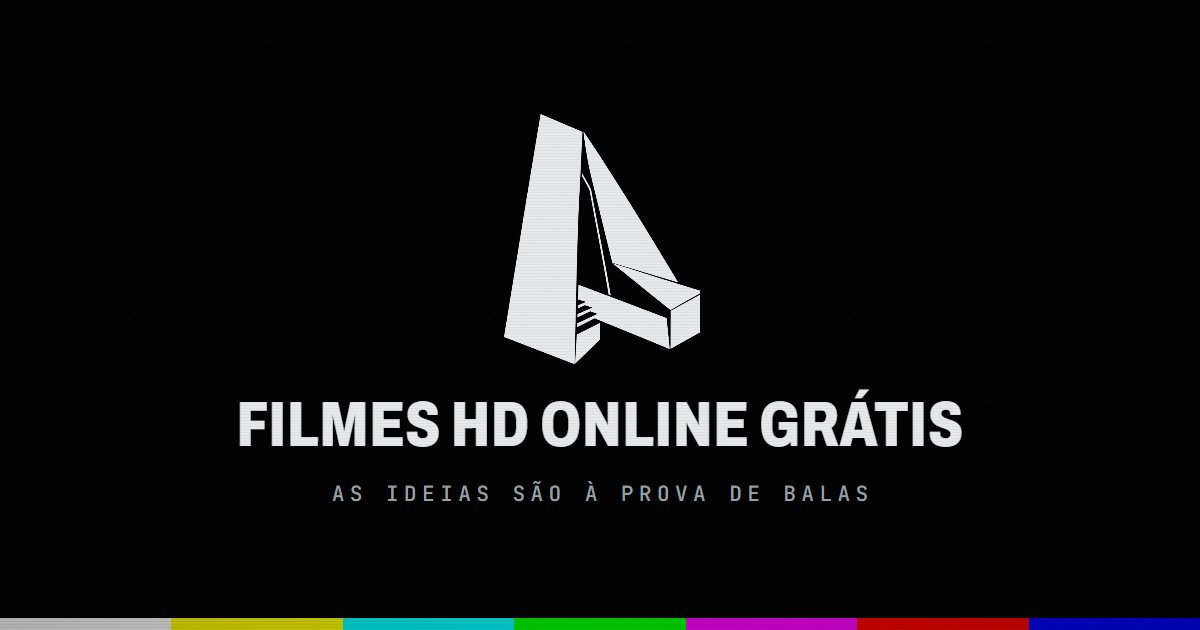
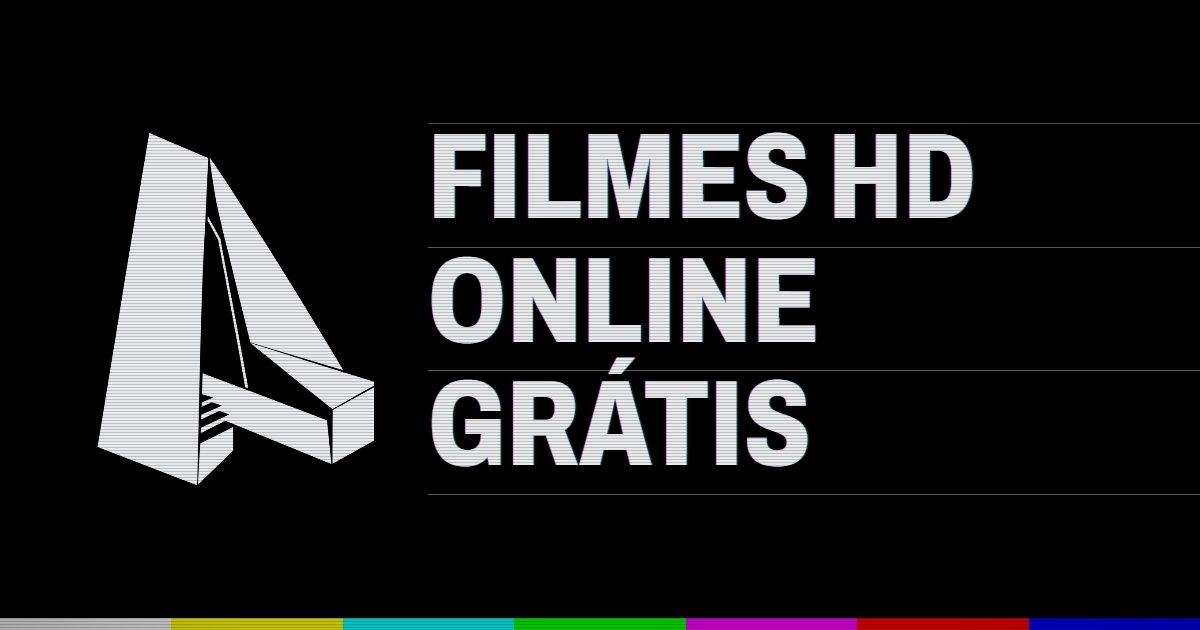
Imagem padrao sem o lema, descricao nova e aviso de direitos
- og/padrao-v2.jpg: so o simbolo e o nome em tres linhas, com a faixa de cores;
  og:image e twitter:image apontam para a URL nova, e og/padrao.jpg continua
  servindo a mesma imagem. As imagens das sessoes nao mudaram.
- Descricao padrao: "Curadoria de cinema e sessoes ao vivo no Discord."
  O lema continua no site.
- LICENSE: todos os direitos reservados a Olwtelet sobre as partes originais,
  com os materiais de terceiros listados e fora do aviso. Resumo no README.
- Testes: metas da home e das paginas, imagem nova e nenhum texto fora do
  bloco do simbolo e do nome.

Changed region(s): [[0.0617, 0.181, 0.8325, 0.8143], [0.0, 0.9651, 0.1542, 1.0]]

diff --git a/src/data/site.ts b/src/data/site.ts
@@ -6,7 +6,7 @@ export const SITE = {
   url: 'https://filmeshdonlinegratis.vercel.app',
   lang: 'pt-BR',
   tagline: 'As ideias são à prova de balas',
-  description: 'Curadoria de cinema: cada sessão é escolhida por quem assistiu e tem o motivo da escolha registrado. A exibição é ao vivo na sala do Discord; o site não hospeda filmes.',
+  description: 'Curadoria de cinema e sessões ao vivo no Discord.',
   author: 'Olwtelet',
   rss: '/rss.xml',
   /** data de abertura do servidor */

diff --git a/docs/FASE2.md b/docs/FASE2.md
@@ -22,6 +22,7 @@ Ponto de retorno do código: `backups/pre-fase2-marca.tar.gz` (193 arquivos, sem
 | Marca | O símbolo preto e branco de `reference/brand/simbolo.png`, sem redesenho. `tools/marca.mjs` gera a máscara, com alfa igual à luminância do arquivo (os pretos internos ficam transparentes, como o fundo): `simbolo-mascara-256.webp` no menu, no rodapé e no topo do Sobre, pintada na cor do texto e, no menu, em `difference`; `simbolo-mascara.webp` nas imagens de compartilhamento. `favicon-32.png` e `favicon.svg` são a mesma forma, transparente, com um halo de 1 px no tom contrário; o SVG troca de cor pelo tema do sistema (`prefers-color-scheme`). Os ícones de toque são o arquivo reduzido, opaco. Os três links levam `?v=4`. O cartão da Sala 24 em QUEM FAZ é o mesmo arquivo, recortado | Voltou em 10/11/2026, a pedido do proprietário, depois de um dia com o "A" colorido de `logo.jpg`: o gerador de `d6221a6` reproduz os arquivos de antes byte a byte. A máscara em `difference` dá contraste sobre qualquer fundo. O `?v=4` fura o cache de favicon de quem viu a marca colorida (`v=3`), que o navegador guarda à parte. A marca colorida (`logo.jpg`, `logo-recorte.json`, `simbolo-cor-*`) saiu do repositório e do build, e o teste da marca reprova se um gerador voltar a citá-la |
 | Cartão sem programação | Só as barras SMPTE e o texto, sem o quadrado nem o símbolo, nos quatro tamanhos de `sem-sinal-*.webp`, gerados por `tools/marca.mjs`. O símbolo segue pequeno no menu, no rodapé, na página Sobre e no favicon, com o desenho original | O nome e a mensagem são o assunto do cartão |
 | Sons | `public/assets/js/local-som.js`, no lugar da classe de som do `app.js`, que ficou sem gatilhos por `tools/patch-bundle.mjs`. Quatro efeitos sintetizados por `tools/gerar-sons.mjs`, com as matrizes em `reference/sons/`: realce no hover dos botões de ação, acionar no clique deles, abrir e fechar o menu pelo estado real dos painéis, inclusive a leitura das sessões e o painel de filme da Programação, que abrem por classe. Só em computador com mouse, e nada é baixado antes da primeira interação. O botão COM SOM / SEM SOM fica na linha do copyright do menu principal, sem acrescentar altura | Os arquivos antigos eram ruído largo, um rasgo de papel até 12 kHz, com 50 a 77 ms de silêncio antes do ataque, e não tinham licença encontrada; dois nunca tocavam, e o do menu tocava em cliques alternados que perdiam o compasso. A escolha de silenciar vale até recarregar a página, na classe do `<html>`, que o Taxi não troca: os textos legais dizem que o site grava dois cookies e não usa armazenamento local. No celular o original já não tocava; agora também não baixa nada |
+| Compartilhamento | A imagem padrão, `public/og/padrao-v2.jpg`, gerada por `tools/gerar-og.mjs` (`node tools/gerar-og.mjs padrao` gera só ela): o símbolo e o nome em três linhas grandes entre fios, como no rodapé, com a faixa de cores embaixo e as linhas de varredura, e nenhum outro texto. `padrao.jpg` recebe a mesma imagem. Cada sessão tem a sua, com a cena, a data, a hora, a sala e o título. A descrição padrão, da home e do RSS, é "Curadoria de cinema e sessões ao vivo no Discord."; as outras páginas e as sessões têm descrição própria | O nome novo fura o cache das redes, que guardam a imagem pela URL, e o antigo continua respondendo. O lema saiu só da arte: segue no painel de leitura do menu, fora das sessões |
 | Volta à home | Nenhum `:has()` em `tema-sinal.css`: o estado vem de classes (`html.trailer-aberto`, `.com-principal`, `.com-pequeno`, `.foco-*`) postas por `local-trailer.js` e `local-menu.js`. Cada imagem vira textura uma vez por visita. Filmes e quadros que saem da tela são descartados, e a carga de uma página que já foi trocada é ignorada | Com os 16 `:has()` do tema, a montagem da home gastava segundos em `Document::recalcStyle`. Nenhuma regra sozinha era a culpada. Os 25 do `main.css` original ficam, sem custo mensurável. Sem carregador e sem atraso artificial; números na seção 7 |
 | Leituras | Patch no `app.js`: o slider anda sozinho, dentro do próprio `render`, sem outro timer. Para fora da tela, com a aba escondida, durante o arrasto e com o foco de teclado nas setas. Depois de mexer com o ponteiro, volta em 3 s; depois da seta, em 6 s. Janela que mostra um cartão por vez troca a cada 6 s. Com movimento reduzido, só manual. A barra de progresso passa a dar a volta, e "ARRASTE PARA VER" sai | Pedido do proprietário. A cópia do preenchimento em `.fill-bar::before` evita o salto da barra na volta do ciclo |
 | Cursor | Retícula em `local-cursor.js` e no bloco 8c do tema: anel, ponto central e uma microbarra SMPTE. Estados de link, arrasto vertical e horizontal, play, setas e aperto, lidos por `closest` de `[data-hitbox]`, `[data-videoplayer]`, `[data-roll]`, `[data-slider]`, `[data-reviews]` e dos links. Em `[data-cursor="hide"]`, onde o `app.js` escondia o cursor antigo, a mira fica sem o rótulo de arrasto. O nó antigo `.cursor-w-out` fica no HTML e não aparece | Um cursor só, sem leitura de layout por movimento, e o laço de quadros para quando o anel alcança o ponto. Fora em toque, movimento reduzido, contraste alto e cores forçadas. Campos de texto mantêm o cursor de texto, e o player do YouTube mantém o dele |
@@ -257,6 +258,21 @@ Depois de tirar o aperto das letras, sem o build anterior ao lado: Edge sem jane
 
 O ENTER é um timer fixo de 3,5 s, contado desde que o `app.js` começa a rodar (230 a 490 ms depois da navegação, nas 60 visitas abaixo). Em 60 visitas perfiladas com a abertura nova, 30 no Edge e 30 no Chrome, com jogo aberto, o timer atrasou no máximo 6 ms, a espera do quadro seguinte foi de no máximo 7 ms, e a preparação terminou de 2,75 a 3,3 s antes do timer, nunca depois. A referência antiga de 1.838 ms até a home era de antes da formatação do PC: o site original, medido agora, dá o mesmo valor deste site.
 
+### Imagem padrão de compartilhamento, descrição e LICENSE, 16/11/2026
+
+Build final, servido em 4322.
+
+- **Imagem padrão.** O lema saiu da arte, que agora só tem o nome e o símbolo. Antes de escolher, três composições foram comparadas, em tamanho real e num cartão de link com a descrição acima da imagem: o logo do menu ampliado; o símbolo em cima com o nome numa linha entre fios; e o símbolo à esquerda com o nome em três linhas entre fios, que é a escolhida. Nela o nome fica maior no cartão de 400 px e retoma o motivo do rodapé. A imagem tem URL nova, `/og/padrao-v2.jpg`, nas metas `og:image` e `twitter:image` de todas as páginas sem imagem própria, com texto alternativo novo. `/og/padrao.jpg` continua no ar com a mesma imagem. As 25 imagens das sessões não foram regeradas: os hashes são os mesmos de antes.
+- **Descrição.** `SITE.description` passou a "Curadoria de cinema e sessões ao vivo no Discord.", que aparece na meta description, em `og:description` e em `twitter:description` da home, e na descrição do canal RSS. As outras páginas e as sessões mantêm as descrições próprias. O lema segue no site.
+- **LICENSE.** Aviso proprietário em português na raiz, com todos os direitos reservados a Olwtelet sobre as partes originais, sem licença para copiar, modificar, redistribuir, republicar ou usar sem autorização prévia por escrito, e pedidos por filmeshdonlinegratisbr@gmail.com. Os materiais de terceiros ficam de fora, um por um, a partir do inventário do repositório: a estrutura da Siena (inclusive os trechos citados em `tools/patch-bundle.mjs` e o texto da Siena copiado em `docs/historico/`), as bibliotecas do `app.js`, o jQuery, o Webflow (inclusive o script inline do `BaseLayout.astro`), as fontes OFL, os ícones, as imagens do TMDB, os trailers, os dados factuais dos filmes e as dependências npm. Os avisos existentes continuam valendo, e nenhuma licença é declarada onde o repositório não identifica uma. O README ganhou um resumo com link, e a linha que apresenta o `app.js` passou a dizer que ele é material de terceiros.
+
+| Verificação | Resultado | Observação |
+|---|---|---|
+| `npm run build` | Passou | |
+| `tools/testes/paginas.mjs`, partes dados e marca | 609 de 609 | Home com a frase nas três descrições e a imagem nova nas duas metas; Programação, Sobre, Contato, Termos e 404 com a imagem nova e descrição própria; cada sessão com a própria descrição e a própria imagem; o lema ainda no site; `padrao.jpg` igual a `padrao-v2.jpg`; o gerador sem o lema; o símbolo branco no lugar novo; nenhum pixel claro fora do bloco do símbolo e do nome, para que lema, data ou texto pequeno não voltem |
+| Imagem em tamanho real e reduzida | Conferida | 1200 x 630; cartão de 400 px com a descrição acima; recorte 2:1 do X; prévia de 300 px |
+| `tools/testes/varredura.mjs` | Nenhum achado | Todo o `dist/` |
+
 ### Retrato do Olwtelet, símbolo preto e branco e sons, 10/11/2026
 
 Build final, servido em 4322. Três mudanças; estrutura, textos, abertura, animações e funcionalidades ficaram como estavam.
@@ -319,7 +335,7 @@ Quem toca é `public/assets/js/local-som.js`. A classe de som do `app.js` ficou 
 - Safari, Firefox e aparelhos reais.
 - O iPad com trackpad conta como computador com mouse e toca os sons.
 - O codificador de MP3 de `tools/gerar-sons.mjs` é o do Windows.
-- Discord, WhatsApp, Facebook e X podem mostrar a imagem de compartilhamento colorida até renovar o cache, porque a URL não mudou.
+- Discord, WhatsApp, Facebook e X podem mostrar a imagem de compartilhamento colorida até renovar o cache, porque a URL não mudou. Em 16/11/2026 a imagem padrão ganhou URL nova.
 
 ### Marca colorida a partir de `logo.jpg`, 09/11/2026
 

diff --git a/README.md b/README.md
@@ -2,13 +2,20 @@
 
 Site da curadoria de cinema Filmes HD Online Grátis: sessões ao vivo na Sala 24, no Discord, com programação, arquivo e uma página crítica por sessão. O site não hospeda nem exibe filmes.
 
-Feito em **Astro 7**, gera páginas estáticas. A estrutura, as animações e as interações vêm de um runtime original (`public/assets/js/app.js`, com GSAP, Lenis, Taxi.js, Howler e WebGL próprio), guiado por classes e atributos do HTML. A identidade visual é o [Tema Sinal](docs/TEMA.md).
+Feito em **Astro 7**, gera páginas estáticas. A estrutura, as animações e as interações vêm do runtime do site original da Siena (`public/assets/js/app.js`, com GSAP, Lenis, Taxi.js, Howler e o WebGL do próprio runtime), guiado por classes e atributos do HTML. Esse runtime é material de terceiros (veja [Direitos](#direitos)). A identidade visual é o [Tema Sinal](docs/TEMA.md).
 
 | Documento | Conteúdo |
 |---|---|
 | [docs/FASE2.md](docs/FASE2.md) | Decisões, mapeamento dos blocos, funcionalidades do site antigo, **como cadastrar uma sessão**, correções de dados e evidência dos testes |
 | [docs/TEMA.md](docs/TEMA.md) | Tokens e tratamentos do Tema Sinal |
 | [docs/historico/](docs/historico/) | A réplica da Siena: README original, com toda a investigação da inicialização, e o inventário das páginas antigas |
+| [LICENSE](LICENSE) | Aviso de direitos autorais |
+
+## Direitos
+
+As partes originais deste repositório pertencem a Olwtelet, com todos os direitos reservados: o código próprio do site e das ferramentas, os textos da curadoria, a documentação (exceto o conteúdo da Siena reproduzido em `docs/historico/`), os sons sintetizados, a marca e as composições das imagens de compartilhamento. Nenhuma licença é concedida para copiar, modificar, redistribuir, republicar ou usar essas partes sem autorização prévia por escrito. Pedidos de autorização: filmeshdonlinegratisbr@gmail.com.
+
+Os materiais de terceiros seguem os direitos e os termos dos seus titulares, e os avisos de licença que os acompanham continuam valendo. Entre eles estão a estrutura original do site da Siena, as bibliotecas embutidas no `app.js`, o jQuery, o runtime do Webflow, as fontes, os ícones das redes, as imagens de filmes, os trailers, os dados factuais dos filmes e as dependências npm. O texto completo, com o que cada parte cobre, está no [LICENSE](LICENSE).
 
 ## Como rodar
 
@@ -56,7 +63,7 @@ src/
   pages/                  index, programacao, sobre, contato, cookies, termos, privacidade, 404,
                           sessoes/[slug], rss.xml, sitemap.xml
 public/
-  assets/js/app.js        runtime original, com as edições de tools/patch-bundle.mjs
+  assets/js/app.js        runtime do site original (terceiros), com as edições de tools/patch-bundle.mjs
   assets/js/local-*.js    camada local: imagens, abertura, menu, trailer, cursor e sons
   assets/css/tema-sinal.css
   assets/img/sessoes/     imagens de cada sessão, geradas
